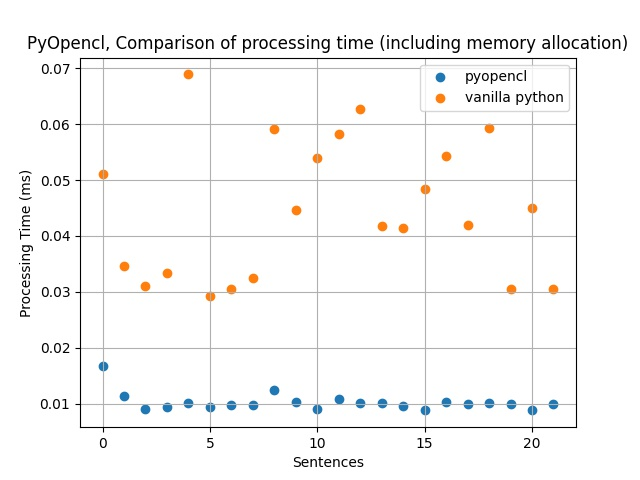
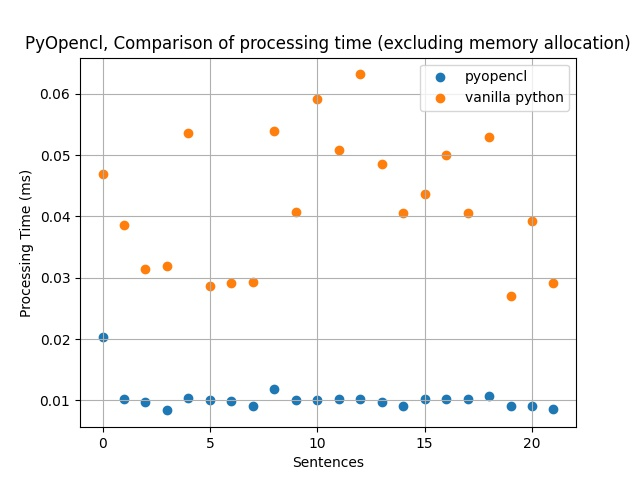
updated_timers

diff --git a/e4750/hw2/assignment2_pycuda_xs2445.py b/e4750/hw2/assignment2_pycuda_xs2445.py
@@ -70,7 +70,8 @@ class cudaCipher:
         # create cuda events to record the execution time
         start_alc = cuda.Event()
         start_cpt = cuda.Event()
-        end = cuda.Event()
+        end_cpt = cuda.Event()
+        end_alc = cuda.Event()
 
         # Get kernel function
         func_dcp = self.mod.get_function("Decrypt")
@@ -95,15 +96,17 @@ class cudaCipher:
         # Record execution time and execute operation.
         start_cpt.record()
         func_dcp(sentence_d, decrypted_d, np.int32(length), block=BlockDim, grid=GridDim)
-        end.record()
+        end_cpt.record()
         
         # Wait for the event to complete
         end.synchronize()
-        time_cpt = start_cpt.time_till(end)
-        time_alc = start_alc.time_till(end)
+        decrypted = decrypted_d.get()
+        end_alc.record()
+        time_cpt = start_cpt.time_till(end_cpt)
+        time_alc = start_alc.time_till(end_alc)
 
         # Fetch result from device to host
-        decrypted = decrypted_d.get()
+        # decrypted = decrypted_d.get()
         # Convert output array back to string
         # decrypted = decrypted.decode('utf-8')
         # decrypted = literal_eval(sentence)

diff --git a/e4750/hw2/assignment2_pyopencl_xs2445.py b/e4750/hw2/assignment2_pyopencl_xs2445.py
@@ -77,18 +77,20 @@ class clCipher:
         # Hence, 1e-6 will provide the time in milliseconds, 
         # making your plots easier to read.
         event.wait()
+        decrypted_d.get()
         end = time.time()
         # print(decrypted_d)
 
         # Copy result to host memory
-        decrypted = decrypted_d.get()
+        # decrypted = decrypted_d.get()
         decrypted = np.ndarray.tolist(decrypted)
         # print(decrypted)
         # print(type(decrypted))
         time_event = event.profile.end-event.profile.start
 
-        return decrypted[0], time_event*1e-6
-        # return decrypted[0], (end-start_cpt)*1e3
+        #return decrypted[0], time_event*1e-6
+
+        return decrypted[0], (end-start_cpt)*1e3
 
 
     
@@ -187,7 +189,7 @@ def main():
         plt.xlabel('Sentences')
         plt.ylabel('Processing Time (ms)')
         # plt.show()
-        plt.savefig('comparison_cl.jpg')
+        plt.savefig('comparison_cl_alc.jpg')
 
 
 if __name__ == "__main__":
